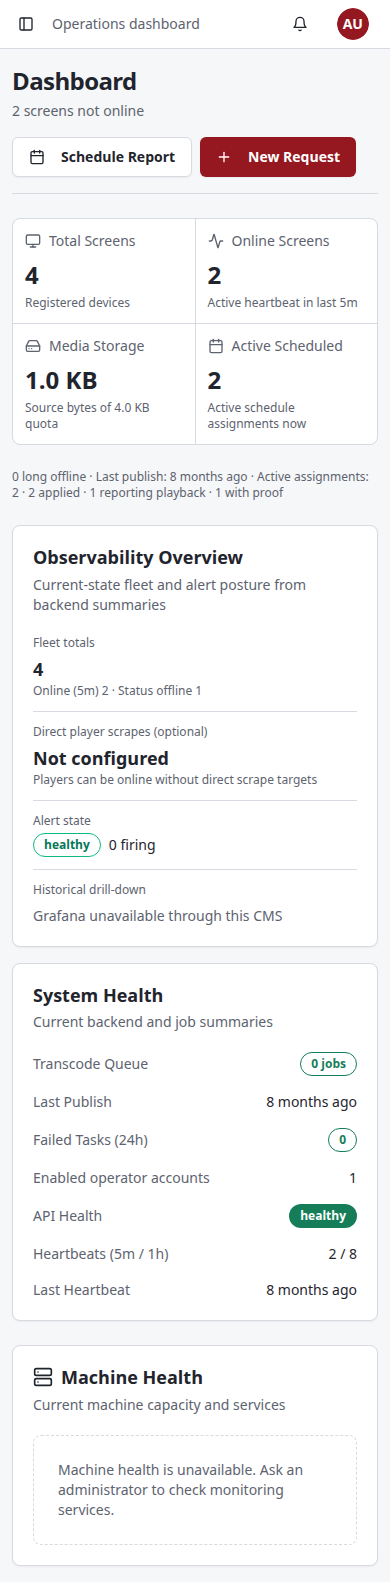
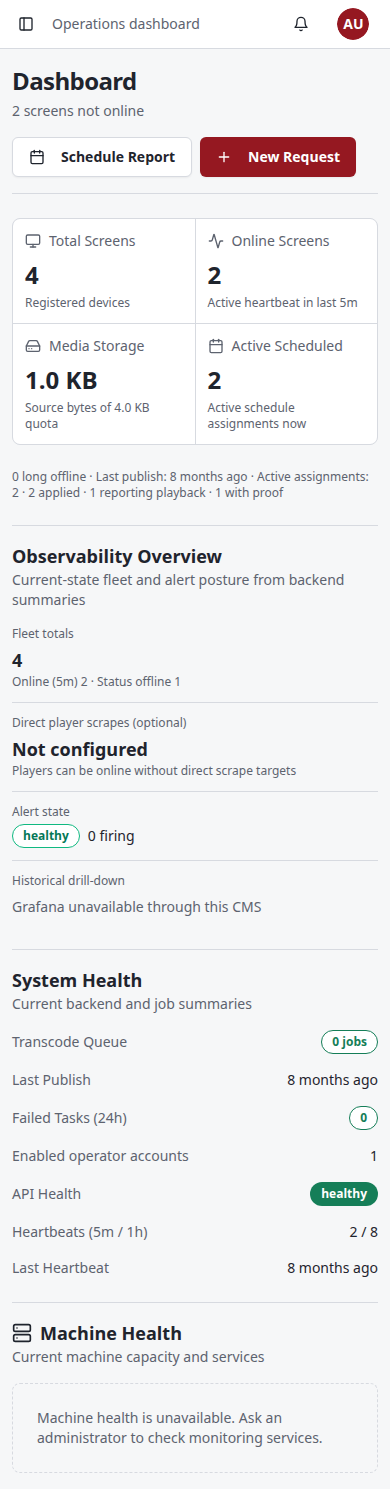
feat(cms): clarify dashboard status sections and schedule header
Replace outer dashboard status cards with readable sections, keep Schedule Cancel beside its title on narrow screens, and correct full-page capture scroll. Stabilize the asynchronous Schedule save assertion and refresh visual evidence.

diff --git a/darshan-cms/src/pages/Dashboard.tsx b/darshan-cms/src/pages/Dashboard.tsx
@@ -558,14 +558,12 @@ export default function Dashboard() {
 
       {/* Alerts */}
       {(alerts.length > 0 || isOfflineLoading || isStorageLoading) && (
-        <Card className="border-warning/20 bg-warning/5">
-          <CardHeader>
-            <CardTitle className="flex items-center gap-2">
+        <section aria-label="Alerts and notices" className="border-l-2 border-warning bg-warning/5 px-4 py-3">
+            <h2 className="flex items-center gap-2 text-base font-semibold">
               <AlertTriangle className="h-5 w-5 text-warning" />
               Alerts & Notices
-            </CardTitle>
-          </CardHeader>
-          <CardContent className="space-y-2">
+            </h2>
+          <div className="mt-3 space-y-2">
             {(isOfflineLoading || isStorageLoading) && alerts.length === 0 ? (
               <div className="flex items-center justify-between p-3 bg-background rounded-lg">
                 <span className="text-sm text-muted-foreground">Checking for alerts...</span>
@@ -583,17 +581,17 @@ export default function Dashboard() {
                 </div>
               ))
             )}
-          </CardContent>
-        </Card>
+          </div>
+        </section>
       )}
 
-      <div className="grid gap-4 md:grid-cols-2">
-        <Card>
-          <CardHeader>
-            <CardTitle>Observability Overview</CardTitle>
-            <CardDescription>Current-state fleet and alert posture from backend summaries</CardDescription>
-          </CardHeader>
-          <CardContent className="space-y-4">
+      <div className="grid gap-8 lg:grid-cols-2">
+        <section aria-labelledby="observability-heading" className="border-t border-border pt-4">
+          <header className="mb-4">
+            <h2 id="observability-heading" className="text-lg font-semibold">Observability Overview</h2>
+            <p className="text-sm text-muted-foreground">Current-state fleet and alert posture from backend summaries</p>
+          </header>
+          <div className="space-y-4">
             <div className="divide-y divide-border">
               <div className="py-3 first:pt-0">
                 <p className="text-xs text-muted-foreground">Fleet totals</p>
@@ -665,16 +663,16 @@ export default function Dashboard() {
                 </div>
               </div>
             </div>
-          </CardContent>
-        </Card>
+          </div>
+        </section>
 
         {/* Running Status */}
-        <Card>
-          <CardHeader>
-            <CardTitle>System Health</CardTitle>
-            <CardDescription>Current backend and job summaries</CardDescription>
-          </CardHeader>
-          <CardContent className="space-y-4">
+        <section aria-labelledby="system-health-heading" className="border-t border-border pt-4">
+          <header className="mb-4">
+            <h2 id="system-health-heading" className="text-lg font-semibold">System Health</h2>
+            <p className="text-sm text-muted-foreground">Current backend and job summaries</p>
+          </header>
+          <div className="space-y-4">
             <div className="flex items-center justify-between">
               <span className="text-sm text-muted-foreground">Transcode Queue</span>
               <Badge
@@ -747,19 +745,17 @@ export default function Dashboard() {
                       : "No heartbeat yet"}
               </span>
             </div>
-          </CardContent>
-        </Card>
+          </div>
+        </section>
       </div>
 
-      <Card>
-        <CardHeader>
-          <CardTitle className="flex items-center gap-2">
+      <section aria-labelledby="machine-health-heading" className="border-t border-border pt-4">
+          <h2 id="machine-health-heading" className="flex items-center gap-2 text-lg font-semibold">
             <Server className="h-5 w-5" />
             Machine Health
-          </CardTitle>
-          <CardDescription>Current machine capacity and services</CardDescription>
-        </CardHeader>
-        <CardContent>
+          </h2>
+          <p className="text-sm text-muted-foreground">Current machine capacity and services</p>
+        <div className="mt-4">
           <div className="grid gap-4 md:grid-cols-3">
             {machineTelemetryUnavailable ? (
               <div className="col-span-full rounded-lg border border-dashed p-6 text-sm text-muted-foreground">
@@ -825,8 +821,8 @@ export default function Dashboard() {
               </div>
             ) : null}
           </div>
-        </CardContent>
-      </Card>
+        </div>
+      </section>
 
       <OnlineScreensDetailsModal
         open={selectedKPI === "online-screens"}

diff --git a/darshan-cms/tests/scheduling-emergency.e2e.spec.ts b/darshan-cms/tests/scheduling-emergency.e2e.spec.ts
@@ -305,6 +305,7 @@ test.describe("Scheduling and emergency operator flow", () => {
     await expect(page.getByText("Page 2 of 5", { exact: true })).toBeVisible();
     await expect(page.getByText("Page 5 of 5", { exact: true })).toBeVisible();
     await page.getByRole("button", { name: "Continue" }).click();
+    await expect.poll(() => capturedSlotPayload?.items?.length).toBe(3);
     expect(capturedSlotPayload?.items?.find((item) => item.media_id === "media-1")?.loop_enabled).toBe(true);
     expect(
       capturedSlotPayload?.items
@@ -349,6 +350,7 @@ test.describe("Scheduling and emergency operator flow", () => {
     for (const width of [1440, 820, 390]) {
       await page.setViewportSize({ width, height: 900 });
       await page.locator("main").evaluate((main) => { main.scrollTop = 0; });
+      await page.evaluate(() => window.scrollTo(0, 0));
       await expect(summary).toBeVisible();
       expect(await page.evaluate(() => document.documentElement.scrollWidth > document.documentElement.clientWidth)).toBe(false);
       await page.screenshot({ path: testInfo.outputPath(`schedule-review-${width}.png`), fullPage: true });

diff --git a/darshan-cms/src/pages/ScheduleCreator.tsx b/darshan-cms/src/pages/ScheduleCreator.tsx
@@ -659,12 +659,12 @@ export default function ScheduleCreator() {
 
   return (
     <div className="space-y-5 pb-4">
-      <div className="flex flex-wrap items-start justify-between gap-3 border-b border-border pb-4">
-        <div>
+      <div className="flex items-start justify-between gap-3 border-b border-border pb-4">
+        <div className="min-w-0">
           <h1 className="text-2xl font-semibold text-foreground">Create Schedule</h1>
           <p className="mt-1 text-sm text-muted-foreground">Choose content, audience, and timing before submitting.</p>
         </div>
-        <Button size="sm" variant="ghost" onClick={() => navigate("/schedule")}>
+        <Button size="sm" variant="ghost" className="shrink-0" onClick={() => navigate("/schedule")}>
           Cancel
         </Button>
       </div>

diff --git a/docs/design-discovery/PRODUCT_UI_REDESIGN_PROGRESS.md b/docs/design-discovery/PRODUCT_UI_REDESIGN_PROGRESS.md
@@ -25,7 +25,7 @@ The foundation needs rendered review across themes, accents and widths. Dashboar
 
 Task: identify fleet problems and continue to content publishing. Priority: current posture, active alerts, then fleet summary and drill-down. The four summary actions retain their existing detail dialogs. The decorative hero and duplicate figures are replaced by a compact toolbar and one summary strip. Required alerts stay in the main page flow; deeper observability and machine details remain below. The existing server APIs still supply all values, including the separate assignment, applied, player-reporting, and proof counts.
 
-The dashboard was rendered with fixture data at 1440, 820, and 390 CSS pixels. The two-column phone summary is legible and the page has no horizontal overflow. The observability panel now uses separated rows rather than four nested cards, and machine rows avoid an additional card wrapper. The generated screenshots are local Playwright outputs, not real-service evidence. A dashboard visual-approval checkpoint and the real-service journey remain pending.
+The dashboard was rendered with fixture data at 1440, 820, and 390 CSS pixels. The two-column phone summary is legible and the page has no horizontal overflow. Observability, system health, and machine health now use section headings, spacing, and separators rather than large outer cards; the segmented fleet summary remains one compact control. Alerts stay prominent in the main flow. The generated screenshots are local Playwright outputs, not real-service evidence. A dashboard visual-approval checkpoint and the real-service journey remain pending.
 
 ## Screens list and detail prototype in progress
 
@@ -73,4 +73,4 @@ The built renderer was inspected at 1440×900, 820×768, 390×844, and 640×360 
 
 Fresh fixture-backed captures for Dashboard, Screens, and Schedule review at 1440, 820, and 390 CSS pixels are in `qa-artifacts/evidence/product-ui-core-prototypes/`. The three focused browser journeys passed. The images are current-branch references, not real-service acceptance.
 
-Review of these captures found additional design work before the approval checkpoint: Dashboard still has prominent card boundaries, and the full-page Schedule capture shows a detached Create Schedule heading above the application. Screens now has one Pair Device action and compact administration disclosures. The remaining findings should be resolved or explicitly accepted in the running interface before the visual system is applied throughout the CMS.
+Review of these captures found and resolved two prototype issues: Dashboard's status sections had prominent outer cards, and the Schedule capture placed Create Schedule above the application because the document scroll had not been reset before full-page capture. The refreshed Dashboard uses simple sections. The refreshed Schedule capture resets document scroll and keeps Cancel alongside its heading on phone width. Screens has one Pair Device action and compact administration disclosures. The visual approval checkpoint remains pending before extending the system throughout the CMS.

diff --git a/qa-artifacts/evidence/product-ui-core-prototypes-developer-verification-2026-11-04.md b/qa-artifacts/evidence/product-ui-core-prototypes-developer-verification-2026-11-04.md
@@ -2,12 +2,14 @@
 
 Status: fixture-backed developer visual evidence, not real-service QA or design approval.
 
-At branch `codex/darshan-product-ui-redesign-20261103`, three focused Chromium journeys passed: Dashboard fleet summary, Screens list and detail inspector, and Schedule creator review. Each rendered at 1440, 820, and 390 CSS pixels without document-level horizontal overflow. The nine captures in `product-ui-core-prototypes/` preserve the current result for review.
+At branch `codex/darshan-product-ui-redesign-20261103`, the Dashboard, Screens, and Schedule prototypes rendered at 1440, 820, and 390 CSS pixels without document-level horizontal overflow. The nine captures in `product-ui-core-prototypes/` preserve the current result for review.
 
 Visible follow-up before design approval:
 
-- Dashboard still relies on several prominent card boundaries. Screens retains one bordered working list.
+- Dashboard's observability, system, and machine status now use separated sections; the fleet summary remains one segmented control. Screens retains one bordered working list.
 - Screens now has one Pair Device action and compact Screen Group/pairing-code disclosures. The updated Screens captures replace the earlier long phone page.
-- The full-page Schedule capture displays a Create Schedule header above the main application; verify whether this is a capture artifact or a layout issue in the running dialog.
+- The earlier full-page Schedule capture put its heading above the app shell because document scroll was not reset before capture. Resetting document scroll corrected the capture. Cancel now stays beside the Schedule heading at 390 pixels.
+
+After these refinements, the Dashboard browser suite passed 7/7 and the Schedule/emergency browser suite passed 2/2 with one Chromium worker. The CMS unit suite passed 271/271, the production build and bundle budget passed, and focused ESLint passed. The first broader Schedule run exposed an immediate assertion on an asynchronous save payload; the test now waits for that request, and the full suite passed on rerun.
 
 These observations do not override the already recorded functional and real-service regression work.
